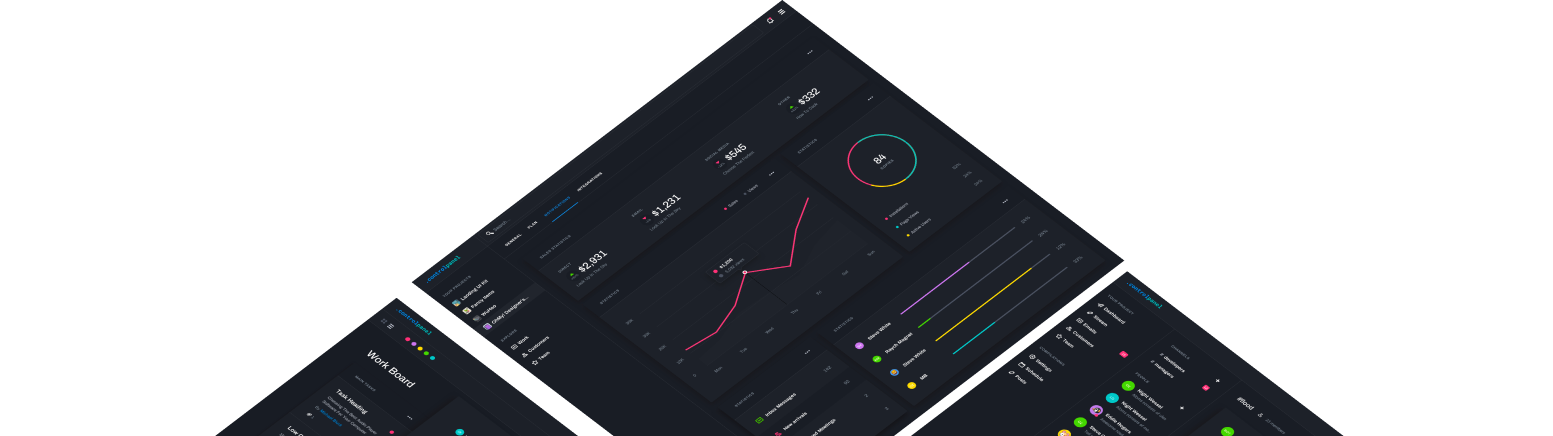
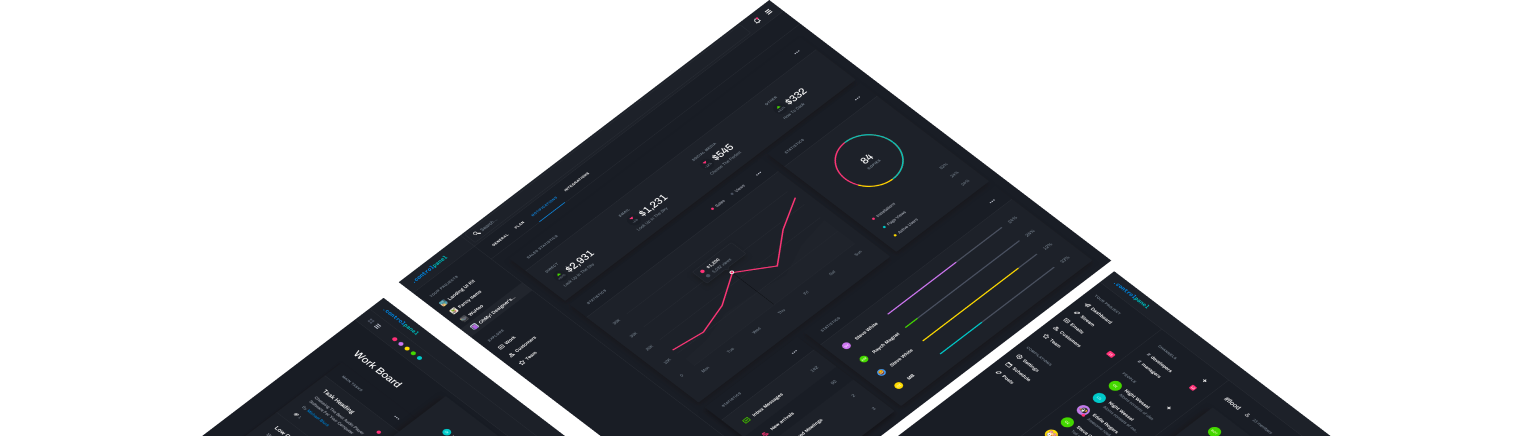
Change home background position

diff --git a/src/Pages/Home.jsx b/src/Pages/Home.jsx
@@ -48,7 +48,7 @@ export const HomeSection = styled(motion.section)`
     background-image: url(${homeBackground});
     background-repeat: no-repeat;
     background-position-y: bottom;
-    background-position-x: 10.969rem;
+    background-position-x: center;
     height: 89vh;
 `;
 
